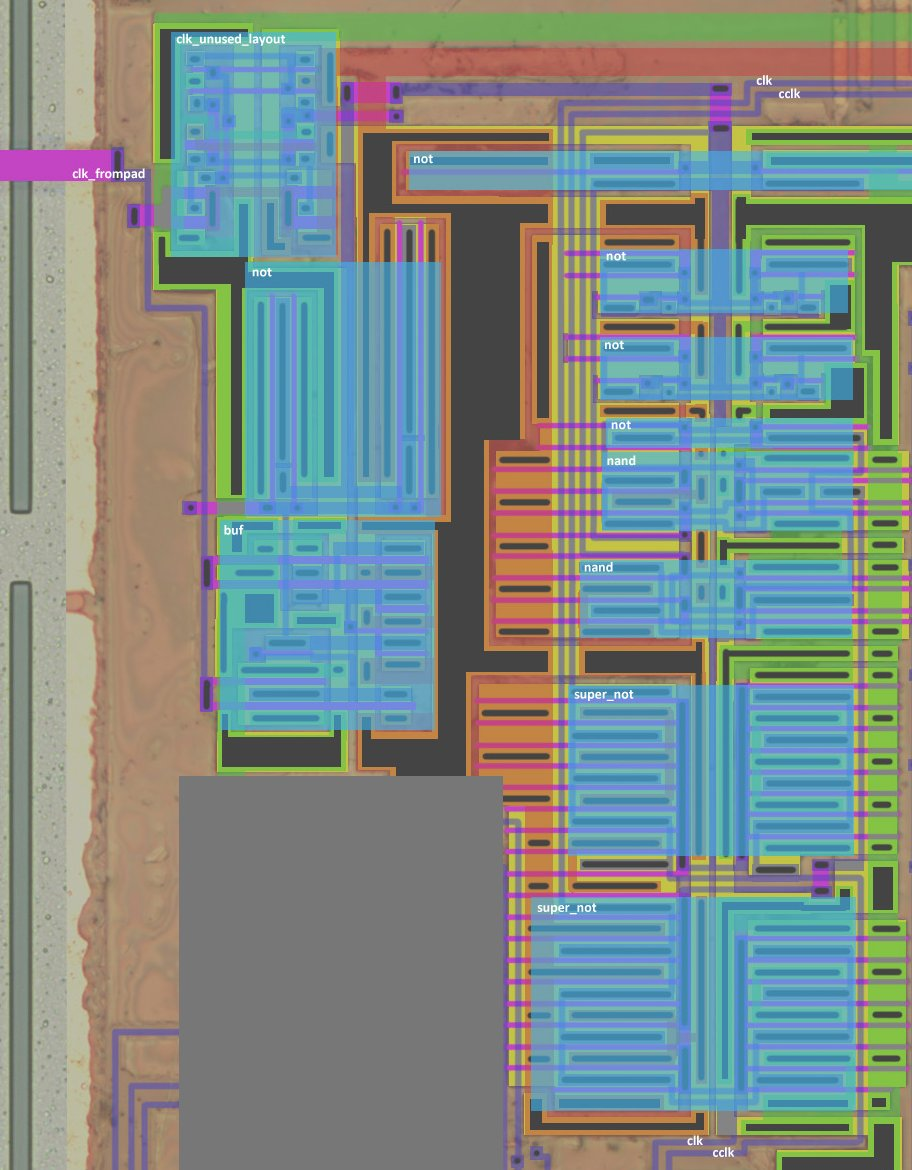
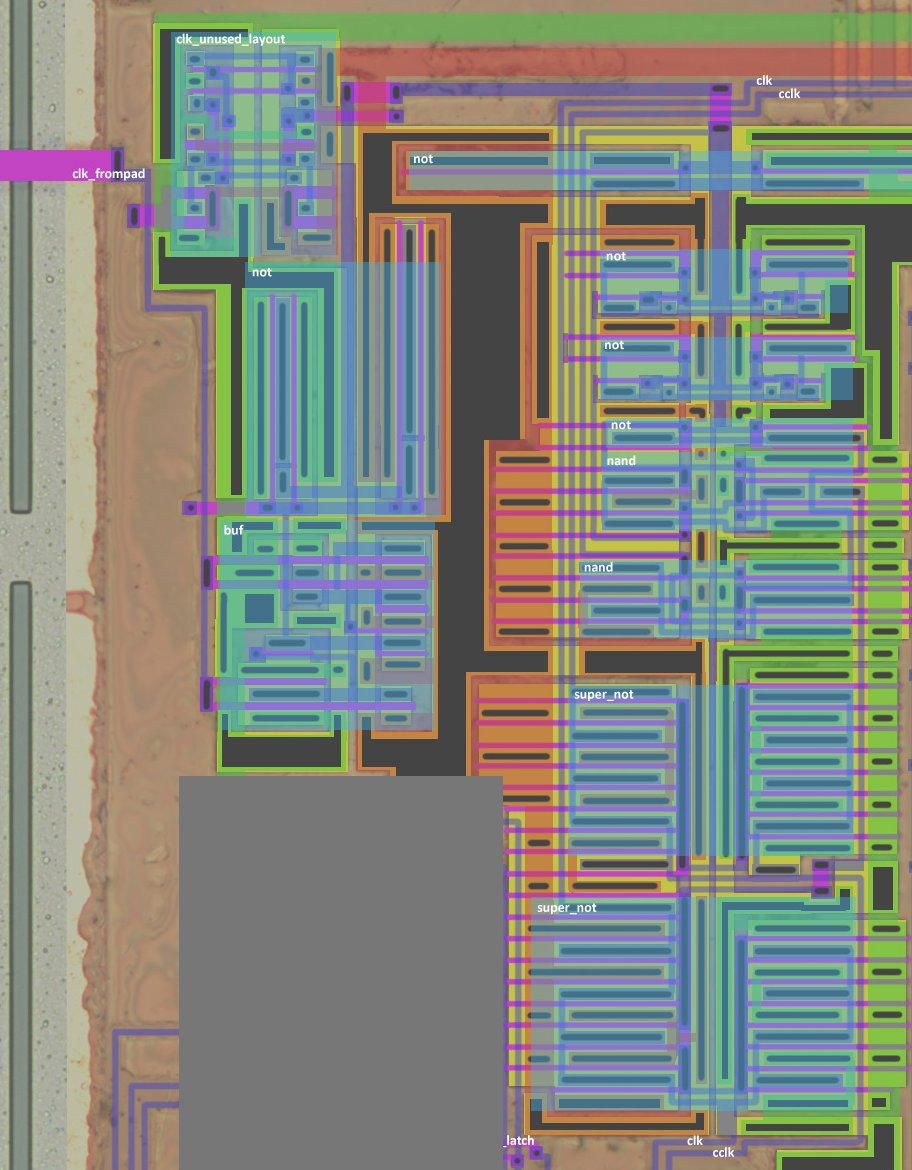
dbif_tran

diff --git a/T84C/scripts/shredder.py b/T84C/scripts/shredder.py
@@ -31,6 +31,7 @@ if __name__ == '__main__':
 
 	FusedImg = "../imgstore/topleft"
 	CropMaskImage (FusedImg, "../imgstore/clkgen_tran", [21, 183, 912, 1170], [(200,959,323,420)] )
+	CropImage (FusedImg, "../imgstore/dbif_tran", [10, 967, 569, 959] )
 
 	FusedImg = "../imgstore/regblock_modules"
 	CropImage (FusedImg, "../imgstore/regblock_hidmx_tran", [81, 376, 453, 1104] )

diff --git a/T84C/db.md b/T84C/db.md
@@ -16,4 +16,17 @@
 
 ## Databus I/F
 
-TBD.
+![dbif_tran](imgstore/dbif_tran.jpg)
+
+|Сигнал|Откуда/Куда|Описание|
+|---|---|---|
+|val_out|на пад|Выход на пад |
+|n_oe|на пад|Комплемент oe |
+|oe|на пад|1: Output enable. Задрайвить пад внешней шины данных|
+|n_val_in|с пада|Вход с пада (active low) |
+|set_in|на пад|Сделать n_val_in = 0 (входное значение = 1)|
+|n_out_enable|с логики управления DataBus|Из этого сигнала получается 2 комплементных oe+/oe|
+|n_db_to_latch|с логики управления DataBus| Внутренняя Databus -> Data Latch|
+|latch_to_db|с логики управления DataBus| Data Latch -> Внутренняя Databus |
+|pad_to_latch|с логики управления DataBus| Pad -> Data Latch;  Если неактивны все сигналы x -> y, то DataLatch заколцовывается сам на себя (FF) |
+|db| |Внутренняя шина данных |
